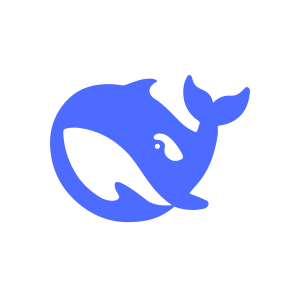
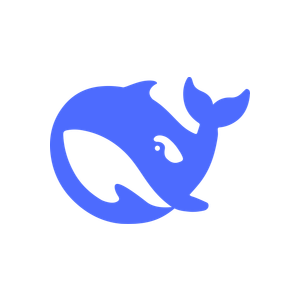
修复 DeepSeek API 图标居中与移除按钮图标
- 图标：SVG viewBox 自带不对称留白，直接居中会偏。改为先 trim 掉透明边再
  居中合成，鲸鱼在 300x300 画布里真正居中。
- 设置菜单「移除 API Key」之前用 trash-2，但 Finch 内置图标表里没有
  trash/delete 类图标，未注册的裸 id 会渲染成字面文本（截图里就是 "trash-2"）。
  按规范注册运行时 SVG 图标包 deepseek-api-icons（Lucide trash-2），
  菜单项改用 ext:remove-key。

diff --git a/extensions/deepseek-api/src/index.ts b/extensions/deepseek-api/src/index.ts
@@ -248,6 +248,19 @@ async function runOcr(ctx: finch.MiniToolContext, apiKey: string, input: DeepSee
   return `${t(ctx, 'ocr.header', { filename, pages: data.page_count ?? pages.length, purpose })}\n\n${body}${tail}`;
 }
 
+/**
+ * Finch's built-in icon table has no trash / remove glyph, and an unregistered
+ * bare id renders as literal text — so the delete row ships its own Lucide
+ * `trash-2` through a runtime pack and references it as `ext:remove-key`.
+ */
+function registerIcons(ctx: finch.MiniToolContext): void {
+  ctx.icons.register('deepseek-api-icons', {
+    'remove-key': {
+      svg: '<svg viewBox="0 0 24 24" fill="none" stroke="currentColor" stroke-width="1.8" stroke-linecap="round" stroke-linejoin="round"><path d="M3 6h18"/><path d="M19 6v14c0 1-1 2-2 2H7c-1 0-2-1-2-2V6"/><path d="M8 6V4c0-1 1-2 2-2h4c1 0 2 1 2 2v2"/><line x1="10" x2="10" y1="11" y2="17"/><line x1="14" x2="14" y1="11" y2="17"/></svg>',
+    },
+  });
+}
+
 function registerSettingsMenu(ctx: finch.MiniToolContext): void {
   const menu = ctx.settingsMenu.register({
     async getMenu() {
@@ -273,7 +286,7 @@ function registerSettingsMenu(ctx: finch.MiniToolContext): void {
         rows.push({
           id: 'clear',
           label: t(ctx, 'settings.clear'),
-          iconName: 'trash-2',
+          iconName: 'ext:remove-key',
           hoverText: t(ctx, 'settings.clear.hover'),
         } as never);
       }
@@ -454,6 +467,7 @@ If the tool reports no API key, call setup_deepseek_api first.`,
 
 export function activate(ctx: finch.MiniToolContext): void {
   ctx.logger.info('DeepSeek API extension activated');
+  registerIcons(ctx);
   registerSettingsMenu(ctx);
   registerSetupTool(ctx);
   registerApiTool(ctx);
